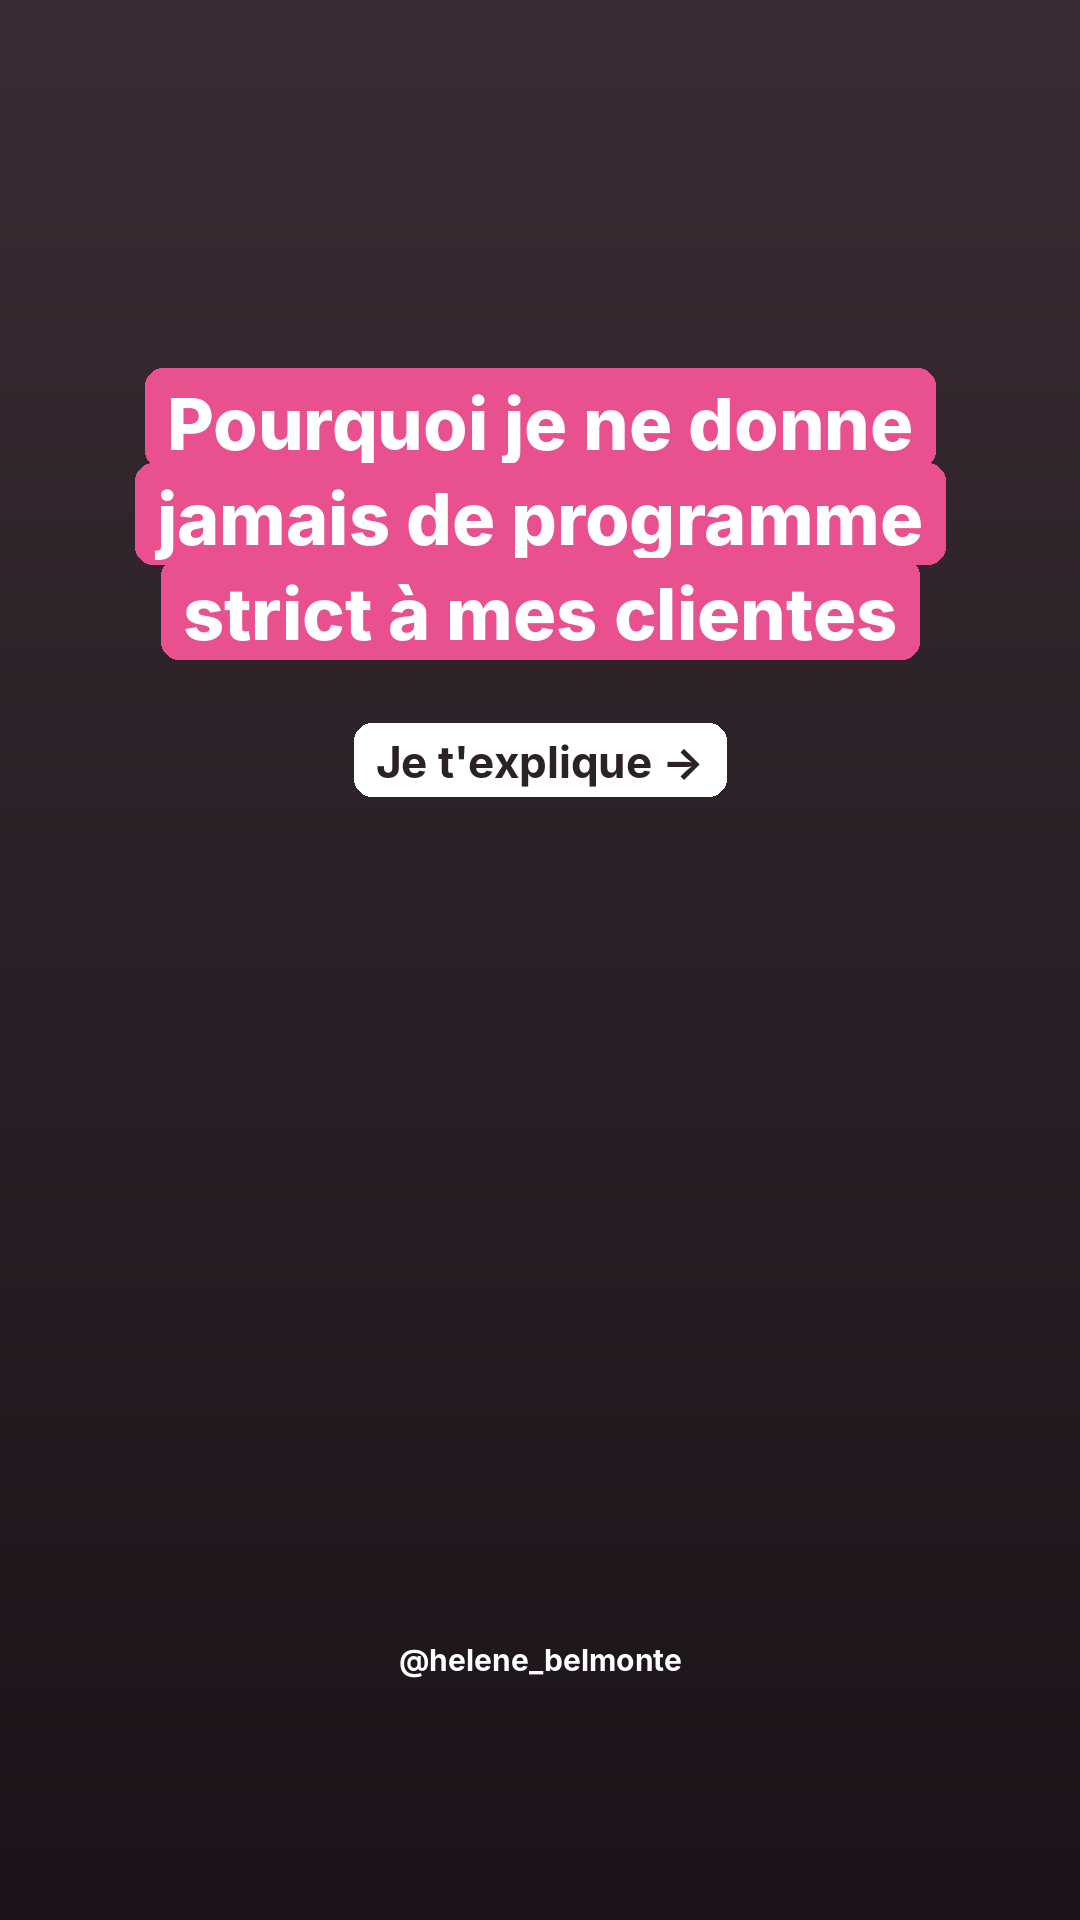
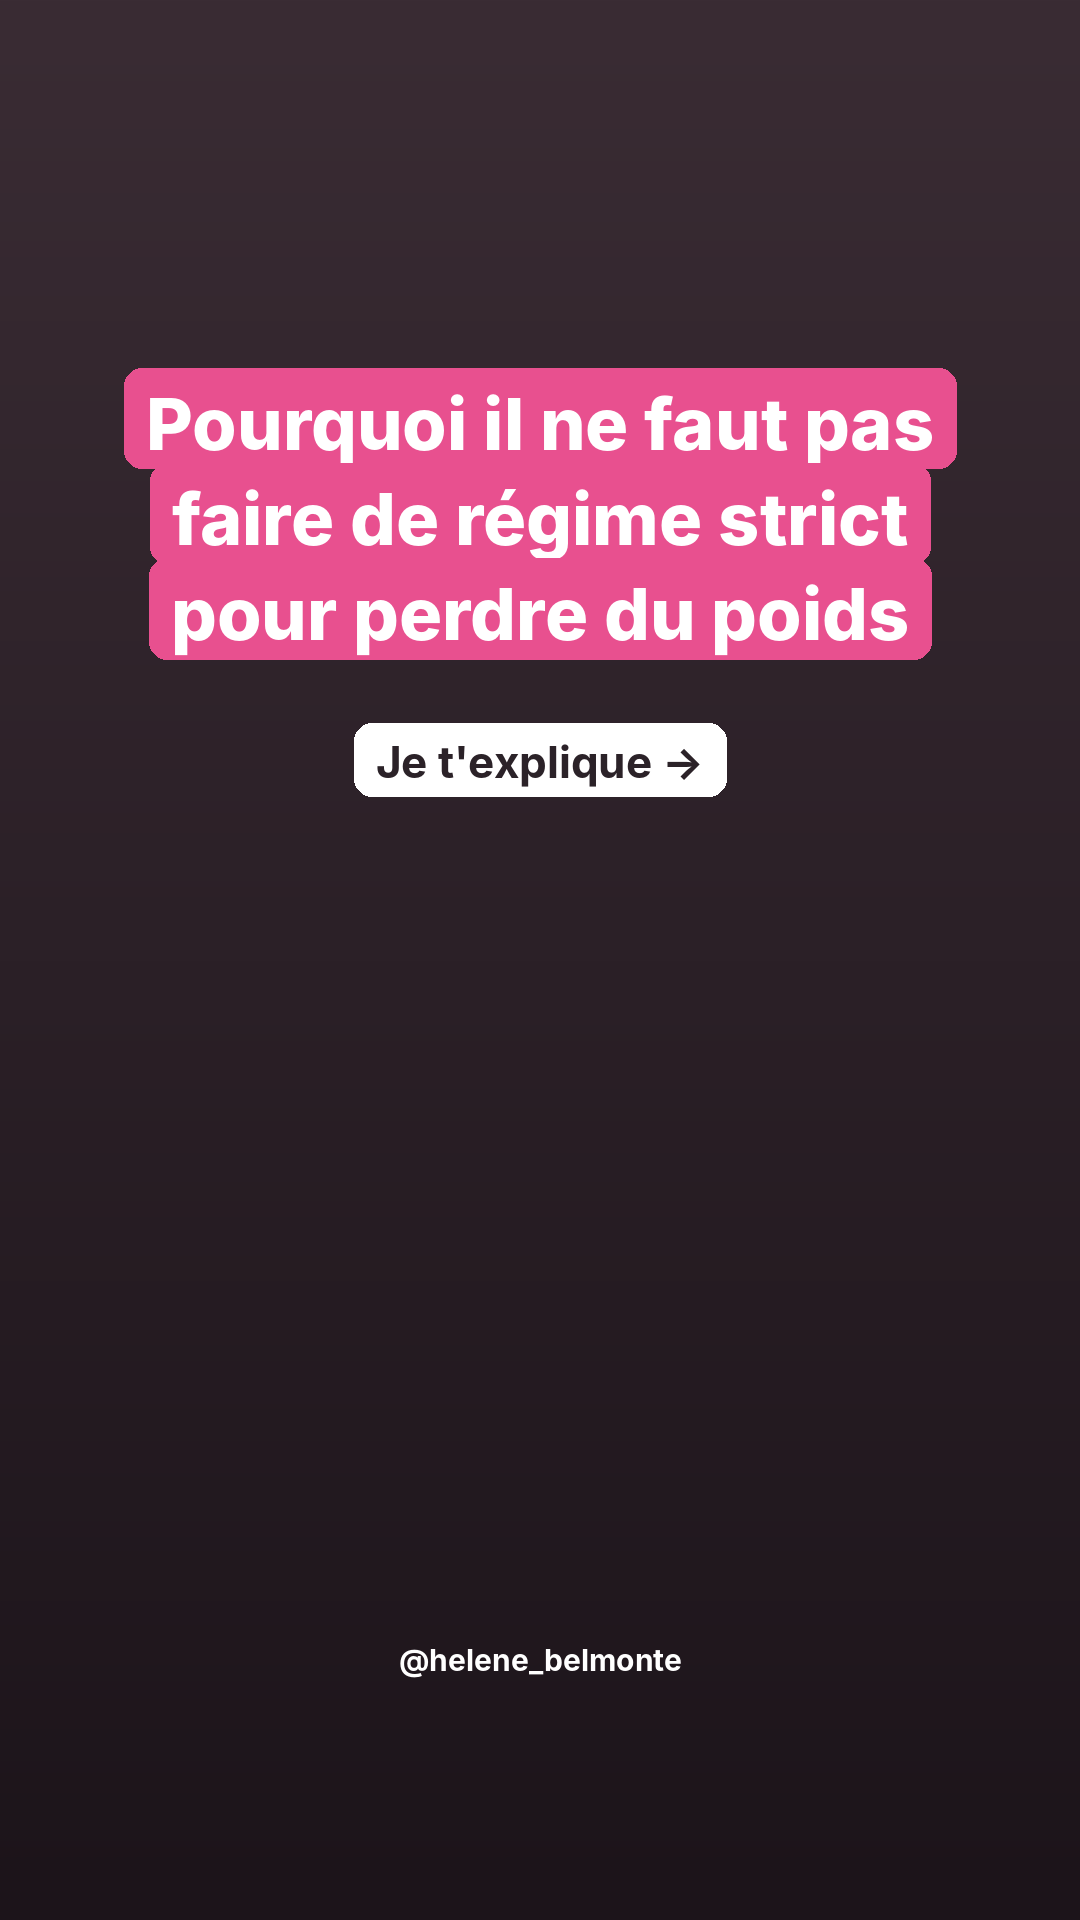
Stories mercredi : nouveau hook
Claude-Session: https://claude.ai/code/session_01Qu7Kbk7XztmX7tXcsqwXcr

Changed region(s): [[0.0917, 0.1875, 0.8861, 0.3438]]

diff --git a/contenus/2026-11-25_stories_mercredi_sur_moi/contenu.py b/contenus/2026-11-25_stories_mercredi_sur_moi/contenu.py
@@ -1,5 +1,5 @@
 STORIES = [
- {"bg": "dark", "blocs": [("Pourquoi je ne donne jamais de programme strict à mes clientes", 72, "pink"),
+ {"bg": "dark", "blocs": [("Pourquoi il ne faut pas faire de régime strict pour perdre du poids", 72, "pink"),
                           ("Je t'explique →", 44, "white", "b")]},
  {"bg": "pink", "blocs": [("Je suis aide-soignante.", 64, "white"),
                           ("Horaires décalés, journées à rallonge, repas sur le pouce…\nJe connais par cœur.", 52, "white")]},

diff --git a/CLAUDE.md b/CLAUDE.md
@@ -112,4 +112,4 @@ Règles des stories qui marchent (à appliquer) :
 | 24/11/2026 | **Stories « On dit souvent que… » v2** (style natif, 3 idées reçues + quiz + CTA, 7 stories) : version recommandée | `contenus/2026-11-24_stories_on_dit_souvent_v2/` (script : `scripts/stories_croyances_v2.py`) | Montage perso → « Stories On dit souvent que v2 (24-11) » |
 | 24/11/2026 | **6 fiches stories** (une par thème de la semaine : valeur + CTA, On dit souvent que, sur moi, avis, lifestyle, boîte à questions) | `fiches/*.html` (script : `scripts/fiches_stories.py`) | DIVERS PERSO → dossier « Fiches stories » (`1YGYVkiyITIVGaR2EMS9DvDS6qR1mE-Ab`) |
 | 24/11/2026 | **Messages nouveaux abonnés** (bienvenue ×3 variantes, puis problématique, je creuse, valeur, important et urgent, appel, relances) | `fiches/messages_nouveaux_abonnes.html` | DIVERS PERSO → Google Doc « Messages nouveaux abonnés (bienvenue → appel) » |
-| 25/11/2026 (mercredi) | **Stories « Sur moi », version pro** (7 stories natives : « Pourquoi je ne donne jamais de programme strict », soignante, sondage, ma méthode, CTA DÉCLIC). Une 1re version trop perso a été refusée. | `contenus/2026-11-25_stories_mercredi_sur_moi/` (générateur réutilisable : `scripts/stories_natif.py` + `contenu.py`) | Montage perso → « Stories Mercredi sur moi (25-11) » |
+| 25/11/2026 (mercredi) | **Stories « Sur moi », version pro** (7 stories natives : « Pourquoi il ne faut pas faire de régime strict pour perdre du poids », soignante, sondage, ma méthode, CTA DÉCLIC). Une 1re version trop perso a été refusée. | `contenus/2026-11-25_stories_mercredi_sur_moi/` (générateur réutilisable : `scripts/stories_natif.py` + `contenu.py`) | Montage perso → « Stories Mercredi sur moi (25-11) » |
